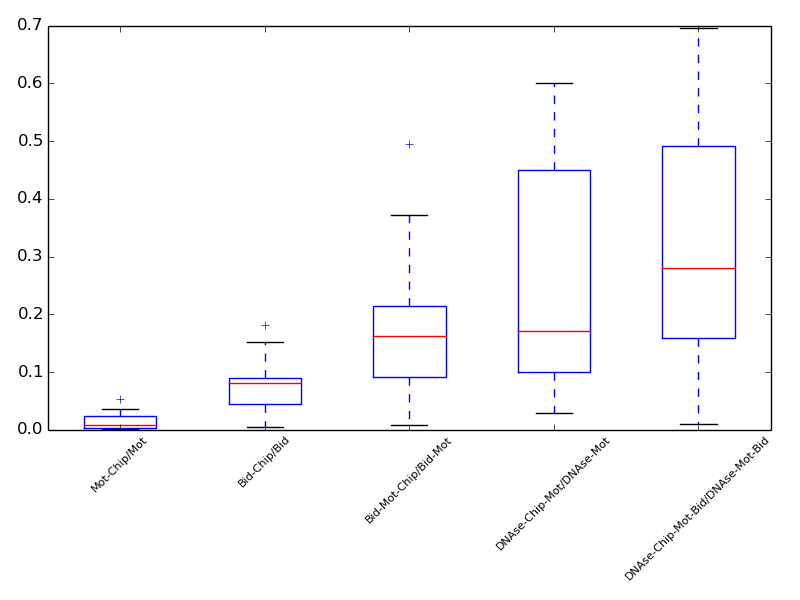
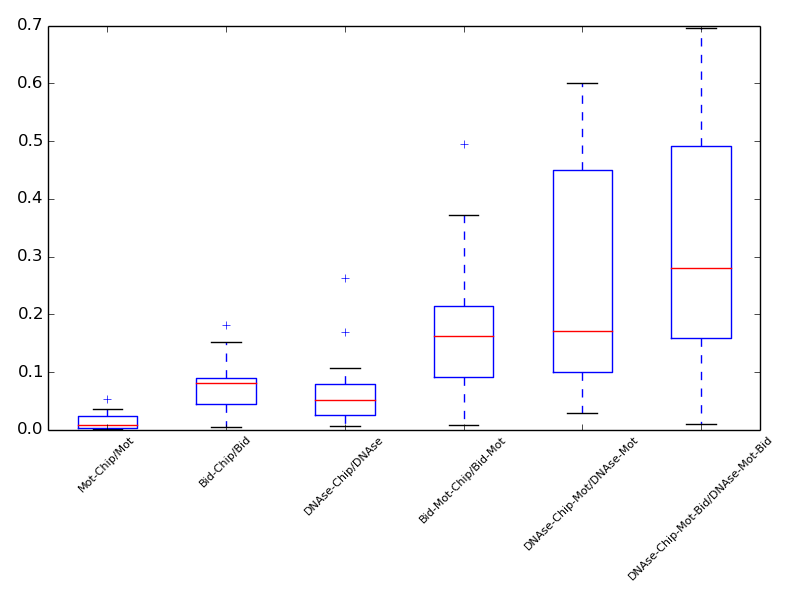
updates

diff --git a/src/VennGeneratorv2.py b/src/VennGeneratorv2.py
@@ -247,8 +247,8 @@ if __name__ == "__main__":
                         list2[1].append(chipbidirfimo/chipbidir)
                         
                         list3[0].append(fimochip/fimotot)
-                        list3[1].append(bidirchip/bidirtot)
-                        list3[2].append(dnachip/dnatot)
+                        list3[1].append(dnachip/dnatot)
+                        list3[2].append(bidirchip/bidirtot)
                         list3[3].append(bidirfimochip/bidirfimo)
                         list3[4].append(dnachipfimo/dnafimo)
                         list3[5].append(dnachipfimobidir/dnafimobidir)
@@ -279,7 +279,7 @@ if __name__ == "__main__":
     #ax2.boxplot(list2)
     #ax2.set_xticklabels(['Chip-Mot/Chip', 'Chip-Bid-Mot/Chip-Bid'],rotation = 45, fontsize=8)
     ax1.boxplot(list3)
-    ax1.set_xticklabels(['Mot-Chip/Mot','Bid-Chip/Bid','DNAse-Chip/DNAse','Bid-Mot-Chip/Bid-Mot','DNAse-Chip-Mot/DNAse-Mot','DNAse-Chip-Mot-Bid/DNAse-Mot-Bid'],rotation = 45, fontsize=8)
+    ax1.set_xticklabels(['Mot-Chip/Mot','DNAse-Chip/DNAse','Bid-Chip/Bid','Bid-Mot-Chip/Bid-Mot','DNAse-Chip-Mot/DNAse-Mot','DNAse-Chip-Mot-Bid/DNAse-Mot-Bid'],rotation = 45, fontsize=8)
     #ax1.boxplot(list4)
     #ax1.set_xticklabels(['Chip-Bid*/Chip','Chip-Bid*-Mot/Chip-Bid*','Chip-Bid*-DNAse/Chip-Bid*','Chip-Bid*-Mot-DNAse/Chip-Bid*'],rotation = 45, fontsize=8)
     #ax2.boxplot(list5)
